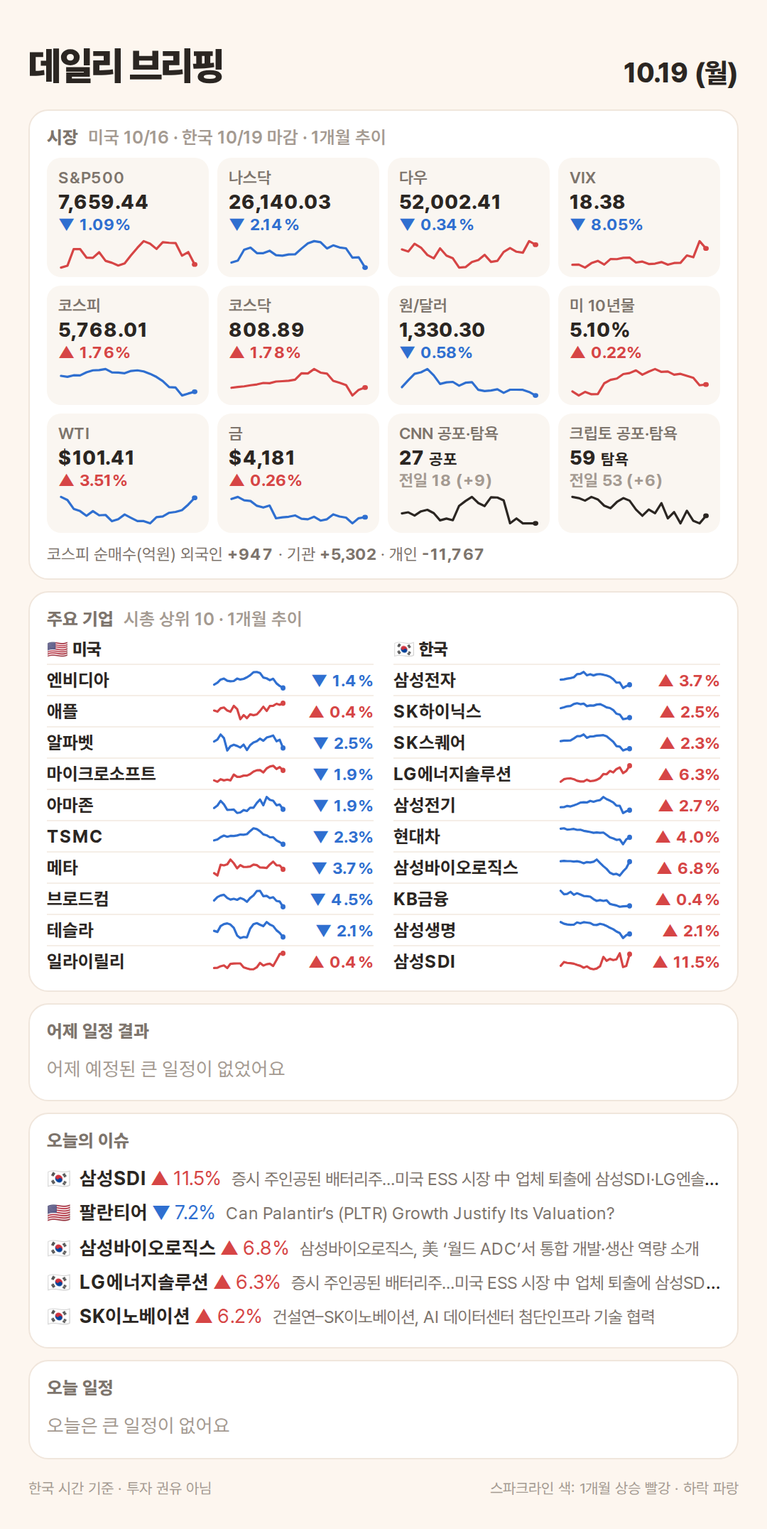
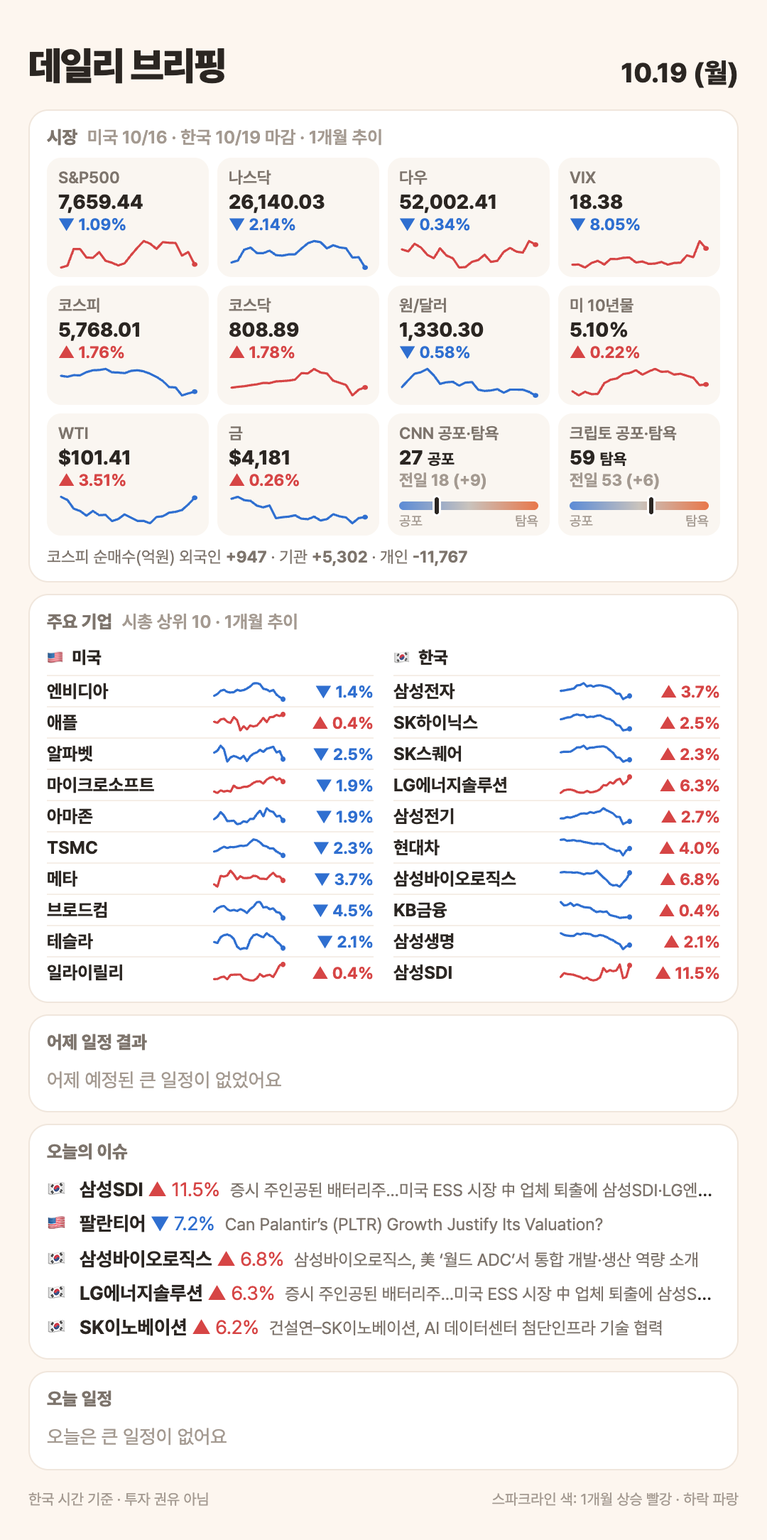
공포·탐욕 칸: 스파크라인 대신 공포~탐욕 축 위치 표시

diff --git a/docs/daily/2026-10-19/index.html b/docs/daily/2026-10-19/index.html
@@ -17,6 +17,9 @@ h1{font-size:27px;font-weight:900;letter-spacing:-1px}
 .tile{min-width:0;background:#faf6f1;border-radius:10px;padding:7px 8px 5px;display:flex;flex-direction:column}
 .tile .sp{width:100%;height:22px;margin-top:3px}
 .tv small{font-size:11px;font-weight:700}
+.mbar{position:relative;height:6px;border-radius:3px;margin-top:8px;background:linear-gradient(90deg,#5b8bd6,#c9c3bd 50%,#e8774a)}
+.mbar span{position:absolute;top:-3px;width:3px;height:12px;margin-left:-1.5px;border-radius:2px;background:var(--ink);box-shadow:0 0 0 1.5px #fff}
+.mticks{display:flex;justify-content:space-between;font-size:9.5px;color:var(--sub);margin-top:2px}
 .tl{font-size:11.5px;color:#7d746c;font-weight:600}
 .tv{font-size:14px;font-weight:800;margin-top:2px;white-space:nowrap;overflow:hidden;text-overflow:ellipsis}
 .tc{font-size:11.5px;font-weight:700;margin-top:1px}
@@ -65,7 +68,7 @@ td,th{text-align:left;padding:5px 6px;border-top:1px solid var(--line)}
 @media (max-width:420px){#card{padding:22px 12px 18px}.grid{grid-template-columns:repeat(3,1fr)}.cos{grid-template-columns:1fr}h1{font-size:24px}}</style></head><body>
 <div id="card">
 <div class="head"><h1>데일리 브리핑</h1><div class="range">10.19 (월)</div></div>
-<div class="blk"><div class="bt">시장 <span class="at">미국 10/16 · 한국 10/19 마감 · 1개월 추이</span></div><div class="grid"><a class="tile" href="https://m.stock.naver.com/worldstock/index/.INX"><div class="tl">S&amp;P500</div><div class="tv">7,659.44</div><div class="tc"><span class="down">▼ 1.09%</span></div><svg class="sp" viewBox="0 0 100 26" preserveAspectRatio="none" aria-hidden="true"><polyline points="2.0,24.0 6.6,22.5 11.1,8.6 15.7,8.6 20.3,15.7 24.9,15.9 29.4,11.2 34.0,18.4 38.6,20.0 43.1,22.3 47.7,20.5 52.3,13.7 56.9,7.5 61.4,2.0 66.0,4.1 70.6,8.5 75.1,2.9 79.7,3.4 84.3,3.6 88.9,14.1 93.4,11.1 98.0,21.4" fill="none" stroke="var(--up)" stroke-width="1.6" stroke-linejoin="round" stroke-linecap="round" vector-effect="non-scaling-stroke"/><circle cx="98.0" cy="21.4" r="2" fill="var(--up)"/></svg></a><a class="tile" href="https://m.stock.naver.com/worldstock/index/.IXIC"><div class="tl">나스닥</div><div class="tv">26,140.03</div><div class="tc"><span class="down">▼ 2.14%</span></div><svg class="sp" viewBox="0 0 100 26" preserveAspectRatio="none" aria-hidden="true"><polyline points="2.0,19.8 6.6,18.2 11.1,9.2 15.7,7.4 20.3,12.0 24.9,12.0 29.4,10.0 34.0,13.7 38.6,14.1 43.1,13.1 47.7,13.0 52.3,8.2 56.9,3.8 61.4,2.0 66.0,2.9 70.6,8.1 75.1,5.5 79.7,7.3 84.3,8.0 88.9,15.7 93.4,15.4 98.0,24.0" fill="none" stroke="var(--down)" stroke-width="1.6" stroke-linejoin="round" stroke-linecap="round" vector-effect="non-scaling-stroke"/><circle cx="98.0" cy="24.0" r="2" fill="var(--down)"/></svg></a><a class="tile" href="https://m.stock.naver.com/worldstock/index/.DJI"><div class="tl">다우</div><div class="tv">52,002.41</div><div class="tc"><span class="down">▼ 0.34%</span></div><svg class="sp" viewBox="0 0 100 26" preserveAspectRatio="none" aria-hidden="true"><polyline points="2.0,8.9 6.6,10.6 11.1,4.2 15.7,7.4 20.3,13.5 24.9,16.3 29.4,8.0 34.0,14.0 38.6,16.3 43.1,24.0 47.7,23.6 52.3,19.3 56.9,17.7 61.4,13.4 66.0,19.3 70.6,18.4 75.1,11.0 79.7,7.7 84.3,10.8 88.9,11.6 93.4,2.0 98.0,5.0" fill="none" stroke="var(--up)" stroke-width="1.6" stroke-linejoin="round" stroke-linecap="round" vector-effect="non-scaling-stroke"/><circle cx="98.0" cy="5.0" r="2" fill="var(--up)"/></svg></a><a class="tile" href="https://m.stock.naver.com/worldstock/index/.VIX"><div class="tl">VIX</div><div class="tv">18.38</div><div class="tc"><span class="down">▼ 8.05%</span></div><svg class="sp" viewBox="0 0 100 26" preserveAspectRatio="none" aria-hidden="true"><polyline points="2.0,21.7 6.6,21.5 11.1,24.0 15.7,20.3 20.3,18.4 24.9,21.5 29.4,16.9 34.0,17.0 38.6,15.9 43.1,15.7 47.7,19.8 52.3,19.0 56.9,21.0 61.4,20.7 66.0,19.4 70.6,21.6 75.1,20.2 79.7,20.0 84.3,13.9 88.9,15.4 93.4,2.0 98.0,8.1" fill="none" stroke="var(--up)" stroke-width="1.6" stroke-linejoin="round" stroke-linecap="round" vector-effect="non-scaling-stroke"/><circle cx="98.0" cy="8.1" r="2" fill="var(--up)"/></svg></a><a class="tile" href="https://m.stock.naver.com/domestic/index/KOSPI"><div class="tl">코스피</div><div class="tv">5,768.01</div><div class="tc"><span class="up">▲ 1.76%</span></div><svg class="sp" viewBox="0 0 100 26" preserveAspectRatio="none" aria-hidden="true"><polyline points="2.0,7.7 6.6,8.5 11.1,7.2 15.7,7.3 20.3,4.7 24.9,3.1 29.4,2.9 34.0,2.0 38.6,4.8 43.1,5.0 47.7,5.5 52.3,3.6 56.9,3.1 61.4,4.0 66.0,6.0 70.6,8.6 75.1,12.0 79.7,17.1 84.3,17.4 88.9,24.0 93.4,22.4 98.0,20.9" fill="none" stroke="var(--down)" stroke-width="1.6" stroke-linejoin="round" stroke-linecap="round" vector-effect="non-scaling-stroke"/><circle cx="98.0" cy="20.9" r="2" fill="var(--down)"/></svg></a><a class="tile" href="https://m.stock.naver.com/domestic/index/KOSDAQ"><div class="tl">코스닥</div><div class="tv">808.89</div><div class="tc"><span class="up">▲ 1.78%</span></div><svg class="sp" viewBox="0 0 100 26" preserveAspectRatio="none" aria-hidden="true"><polyline points="2.0,17.6 6.6,16.9 11.1,16.4 15.7,15.5 20.3,14.8 24.9,13.6 29.4,13.8 34.0,12.4 38.6,12.1 43.1,11.7 47.7,10.9 52.3,5.5 56.9,5.7 61.4,2.0 66.0,5.0 70.6,5.8 75.1,11.8 79.7,13.5 84.3,15.3 88.9,24.0 93.4,19.3 98.0,17.4" fill="none" stroke="var(--up)" stroke-width="1.6" stroke-linejoin="round" stroke-linecap="round" vector-effect="non-scaling-stroke"/><circle cx="98.0" cy="17.4" r="2" fill="var(--up)"/></svg></a><a class="tile" href="https://m.stock.naver.com/marketindex/exchange/FX_USDKRW"><div class="tl">원/달러</div><div class="tv">1,330.30</div><div class="tc"><span class="down">▼ 0.58%</span></div><svg class="sp" viewBox="0 0 100 26" preserveAspectRatio="none" aria-hidden="true"><polyline points="2.0,17.1 6.6,11.3 11.1,6.0 15.7,4.7 20.3,2.0 24.9,7.3 29.4,14.4 34.0,13.1 38.6,12.7 43.1,15.9 47.7,13.4 52.3,12.9 56.9,19.3 61.4,20.3 66.0,19.9 70.6,18.8 75.1,21.8 79.7,19.2 84.3,19.2 88.9,19.3 93.4,21.1 98.0,24.0" fill="none" stroke="var(--down)" stroke-width="1.6" stroke-linejoin="round" stroke-linecap="round" vector-effect="non-scaling-stroke"/><circle cx="98.0" cy="24.0" r="2" fill="var(--down)"/></svg></a><a class="tile" href="https://m.stock.naver.com/marketindex/bond/US10YT=RR"><div class="tl">미 10년물</div><div class="tv">5.10%</div><div class="tc"><span class="up">▲ 0.22%</span></div><svg class="sp" viewBox="0 0 100 26" preserveAspectRatio="none" aria-hidden="true"><polyline points="2.0,20.6 6.6,24.0 11.1,21.0 15.7,23.0 20.3,22.8 24.9,13.9 29.4,11.0 34.0,9.9 38.6,6.2 43.1,5.4 47.7,3.1 52.3,6.7 56.9,4.1 61.4,2.0 66.0,4.4 70.6,4.1 75.1,6.7 79.7,6.0 84.3,7.7 88.9,9.3 93.4,15.5 98.0,14.9" fill="none" stroke="var(--up)" stroke-width="1.6" stroke-linejoin="round" stroke-linecap="round" vector-effect="non-scaling-stroke"/><circle cx="98.0" cy="14.9" r="2" fill="var(--up)"/></svg></a><a class="tile" href="https://m.stock.naver.com/marketindex/energy/CLcv1"><div class="tl">WTI</div><div class="tv">$101.41</div><div class="tc"><span class="up">▲ 3.51%</span></div><svg class="sp" viewBox="0 0 100 26" preserveAspectRatio="none" aria-hidden="true"><polyline points="2.0,2.0 6.6,4.6 11.1,11.9 15.7,13.8 20.3,17.7 24.9,13.8 29.4,17.3 34.0,17.0 38.6,22.2 43.1,20.5 47.7,16.6 52.3,19.4 56.9,22.1 61.4,22.1 66.0,24.0 70.6,18.8 75.1,18.2 79.7,15.2 84.3,14.5 88.9,13.0 93.4,8.4 98.0,2.8" fill="none" stroke="var(--down)" stroke-width="1.6" stroke-linejoin="round" stroke-linecap="round" vector-effect="non-scaling-stroke"/><circle cx="98.0" cy="2.8" r="2" fill="var(--down)"/></svg></a><a class="tile" href="https://m.stock.naver.com/marketindex/metals/GCcv1"><div class="tl">금</div><div class="tv">$4,181</div><div class="tc"><span class="up">▲ 0.26%</span></div><svg class="sp" viewBox="0 0 100 26" preserveAspectRatio="none" aria-hidden="true"><polyline points="2.0,3.7 6.6,2.0 11.1,4.8 15.7,5.4 20.3,9.4 24.9,10.8 29.4,9.2 34.0,19.8 38.6,19.0 43.1,18.5 47.7,17.4 52.3,20.2 56.9,20.6 61.4,18.5 66.0,21.7 70.6,20.6 75.1,16.5 79.7,18.3 84.3,19.2 88.9,24.0 93.4,19.7 98.0,18.9" fill="none" stroke="var(--down)" stroke-width="1.6" stroke-linejoin="round" stroke-linecap="round" vector-effect="non-scaling-stroke"/><circle cx="98.0" cy="18.9" r="2" fill="var(--down)"/></svg></a><a class="tile" href="https://edition.cnn.com/markets/fear-and-greed"><div class="tl">CNN 공포·탐욕</div><div class="tv">27 <small>공포</small></div><div class="tc flat">전일 18 (+9)</div><svg class="sp" viewBox="0 0 100 26" preserveAspectRatio="none" aria-hidden="true"><polyline points="2.0,15.7 6.6,14.8 11.1,17.5 15.7,14.0 20.3,12.7 24.9,15.5 29.4,21.5 34.0,20.0 38.6,21.4 43.1,9.4 47.7,5.4 52.3,2.0 56.9,7.1 61.4,9.6 66.0,2.3 70.6,2.5 75.1,4.9 79.7,23.9 84.3,19.9 88.9,24.0 93.4,24.0 98.0,24.0" fill="none" stroke="var(--ink)" stroke-width="1.6" stroke-linejoin="round" stroke-linecap="round" vector-effect="non-scaling-stroke"/><circle cx="98.0" cy="24.0" r="2" fill="var(--ink)"/></svg></a><a class="tile" href="https://alternative.me/crypto/fear-and-greed-index/"><div class="tl">크립토 공포·탐욕</div><div class="tv">59 <small>탐욕</small></div><div class="tc flat">전일 53 (+6)</div><svg class="sp" viewBox="0 0 100 26" preserveAspectRatio="none" aria-hidden="true"><polyline points="2.0,2.0 6.6,3.0 11.1,5.1 15.7,2.0 20.3,4.1 24.9,9.3 29.4,11.4 34.0,6.2 38.6,3.0 43.1,5.1 47.7,12.5 52.3,17.7 56.9,12.5 61.4,15.6 66.0,7.2 70.6,19.8 75.1,14.6 79.7,24.0 84.3,13.5 88.9,21.9 93.4,24.0 98.0,17.7" fill="none" stroke="var(--ink)" stroke-width="1.6" stroke-linejoin="round" stroke-linecap="round" vector-effect="non-scaling-stroke"/><circle cx="98.0" cy="17.7" r="2" fill="var(--ink)"/></svg></a></div><div class="flow">코스피 순매수(억원) 외국인 <b>+947</b> · 기관 <b>+5,302</b> · 개인 <b>-11,767</b></div></div>
+<div class="blk"><div class="bt">시장 <span class="at">미국 10/16 · 한국 10/19 마감 · 1개월 추이</span></div><div class="grid"><a class="tile" href="https://m.stock.naver.com/worldstock/index/.INX"><div class="tl">S&amp;P500</div><div class="tv">7,659.44</div><div class="tc"><span class="down">▼ 1.09%</span></div><svg class="sp" viewBox="0 0 100 26" preserveAspectRatio="none" aria-hidden="true"><polyline points="2.0,24.0 6.6,22.5 11.1,8.6 15.7,8.6 20.3,15.7 24.9,15.9 29.4,11.2 34.0,18.4 38.6,20.0 43.1,22.3 47.7,20.5 52.3,13.7 56.9,7.5 61.4,2.0 66.0,4.1 70.6,8.5 75.1,2.9 79.7,3.4 84.3,3.6 88.9,14.1 93.4,11.1 98.0,21.4" fill="none" stroke="var(--up)" stroke-width="1.6" stroke-linejoin="round" stroke-linecap="round" vector-effect="non-scaling-stroke"/><circle cx="98.0" cy="21.4" r="2" fill="var(--up)"/></svg></a><a class="tile" href="https://m.stock.naver.com/worldstock/index/.IXIC"><div class="tl">나스닥</div><div class="tv">26,140.03</div><div class="tc"><span class="down">▼ 2.14%</span></div><svg class="sp" viewBox="0 0 100 26" preserveAspectRatio="none" aria-hidden="true"><polyline points="2.0,19.8 6.6,18.2 11.1,9.2 15.7,7.4 20.3,12.0 24.9,12.0 29.4,10.0 34.0,13.7 38.6,14.1 43.1,13.1 47.7,13.0 52.3,8.2 56.9,3.8 61.4,2.0 66.0,2.9 70.6,8.1 75.1,5.5 79.7,7.3 84.3,8.0 88.9,15.7 93.4,15.4 98.0,24.0" fill="none" stroke="var(--down)" stroke-width="1.6" stroke-linejoin="round" stroke-linecap="round" vector-effect="non-scaling-stroke"/><circle cx="98.0" cy="24.0" r="2" fill="var(--down)"/></svg></a><a class="tile" href="https://m.stock.naver.com/worldstock/index/.DJI"><div class="tl">다우</div><div class="tv">52,002.41</div><div class="tc"><span class="down">▼ 0.34%</span></div><svg class="sp" viewBox="0 0 100 26" preserveAspectRatio="none" aria-hidden="true"><polyline points="2.0,8.9 6.6,10.6 11.1,4.2 15.7,7.4 20.3,13.5 24.9,16.3 29.4,8.0 34.0,14.0 38.6,16.3 43.1,24.0 47.7,23.6 52.3,19.3 56.9,17.7 61.4,13.4 66.0,19.3 70.6,18.4 75.1,11.0 79.7,7.7 84.3,10.8 88.9,11.6 93.4,2.0 98.0,5.0" fill="none" stroke="var(--up)" stroke-width="1.6" stroke-linejoin="round" stroke-linecap="round" vector-effect="non-scaling-stroke"/><circle cx="98.0" cy="5.0" r="2" fill="var(--up)"/></svg></a><a class="tile" href="https://m.stock.naver.com/worldstock/index/.VIX"><div class="tl">VIX</div><div class="tv">18.38</div><div class="tc"><span class="down">▼ 8.05%</span></div><svg class="sp" viewBox="0 0 100 26" preserveAspectRatio="none" aria-hidden="true"><polyline points="2.0,21.7 6.6,21.5 11.1,24.0 15.7,20.3 20.3,18.4 24.9,21.5 29.4,16.9 34.0,17.0 38.6,15.9 43.1,15.7 47.7,19.8 52.3,19.0 56.9,21.0 61.4,20.7 66.0,19.4 70.6,21.6 75.1,20.2 79.7,20.0 84.3,13.9 88.9,15.4 93.4,2.0 98.0,8.1" fill="none" stroke="var(--up)" stroke-width="1.6" stroke-linejoin="round" stroke-linecap="round" vector-effect="non-scaling-stroke"/><circle cx="98.0" cy="8.1" r="2" fill="var(--up)"/></svg></a><a class="tile" href="https://m.stock.naver.com/domestic/index/KOSPI"><div class="tl">코스피</div><div class="tv">5,768.01</div><div class="tc"><span class="up">▲ 1.76%</span></div><svg class="sp" viewBox="0 0 100 26" preserveAspectRatio="none" aria-hidden="true"><polyline points="2.0,7.7 6.6,8.5 11.1,7.2 15.7,7.3 20.3,4.7 24.9,3.1 29.4,2.9 34.0,2.0 38.6,4.8 43.1,5.0 47.7,5.5 52.3,3.6 56.9,3.1 61.4,4.0 66.0,6.0 70.6,8.6 75.1,12.0 79.7,17.1 84.3,17.4 88.9,24.0 93.4,22.4 98.0,20.9" fill="none" stroke="var(--down)" stroke-width="1.6" stroke-linejoin="round" stroke-linecap="round" vector-effect="non-scaling-stroke"/><circle cx="98.0" cy="20.9" r="2" fill="var(--down)"/></svg></a><a class="tile" href="https://m.stock.naver.com/domestic/index/KOSDAQ"><div class="tl">코스닥</div><div class="tv">808.89</div><div class="tc"><span class="up">▲ 1.78%</span></div><svg class="sp" viewBox="0 0 100 26" preserveAspectRatio="none" aria-hidden="true"><polyline points="2.0,17.6 6.6,16.9 11.1,16.4 15.7,15.5 20.3,14.8 24.9,13.6 29.4,13.8 34.0,12.4 38.6,12.1 43.1,11.7 47.7,10.9 52.3,5.5 56.9,5.7 61.4,2.0 66.0,5.0 70.6,5.8 75.1,11.8 79.7,13.5 84.3,15.3 88.9,24.0 93.4,19.3 98.0,17.4" fill="none" stroke="var(--up)" stroke-width="1.6" stroke-linejoin="round" stroke-linecap="round" vector-effect="non-scaling-stroke"/><circle cx="98.0" cy="17.4" r="2" fill="var(--up)"/></svg></a><a class="tile" href="https://m.stock.naver.com/marketindex/exchange/FX_USDKRW"><div class="tl">원/달러</div><div class="tv">1,330.30</div><div class="tc"><span class="down">▼ 0.58%</span></div><svg class="sp" viewBox="0 0 100 26" preserveAspectRatio="none" aria-hidden="true"><polyline points="2.0,17.1 6.6,11.3 11.1,6.0 15.7,4.7 20.3,2.0 24.9,7.3 29.4,14.4 34.0,13.1 38.6,12.7 43.1,15.9 47.7,13.4 52.3,12.9 56.9,19.3 61.4,20.3 66.0,19.9 70.6,18.8 75.1,21.8 79.7,19.2 84.3,19.2 88.9,19.3 93.4,21.1 98.0,24.0" fill="none" stroke="var(--down)" stroke-width="1.6" stroke-linejoin="round" stroke-linecap="round" vector-effect="non-scaling-stroke"/><circle cx="98.0" cy="24.0" r="2" fill="var(--down)"/></svg></a><a class="tile" href="https://m.stock.naver.com/marketindex/bond/US10YT=RR"><div class="tl">미 10년물</div><div class="tv">5.10%</div><div class="tc"><span class="up">▲ 0.22%</span></div><svg class="sp" viewBox="0 0 100 26" preserveAspectRatio="none" aria-hidden="true"><polyline points="2.0,20.6 6.6,24.0 11.1,21.0 15.7,23.0 20.3,22.8 24.9,13.9 29.4,11.0 34.0,9.9 38.6,6.2 43.1,5.4 47.7,3.1 52.3,6.7 56.9,4.1 61.4,2.0 66.0,4.4 70.6,4.1 75.1,6.7 79.7,6.0 84.3,7.7 88.9,9.3 93.4,15.5 98.0,14.9" fill="none" stroke="var(--up)" stroke-width="1.6" stroke-linejoin="round" stroke-linecap="round" vector-effect="non-scaling-stroke"/><circle cx="98.0" cy="14.9" r="2" fill="var(--up)"/></svg></a><a class="tile" href="https://m.stock.naver.com/marketindex/energy/CLcv1"><div class="tl">WTI</div><div class="tv">$101.41</div><div class="tc"><span class="up">▲ 3.51%</span></div><svg class="sp" viewBox="0 0 100 26" preserveAspectRatio="none" aria-hidden="true"><polyline points="2.0,2.0 6.6,4.6 11.1,11.9 15.7,13.8 20.3,17.7 24.9,13.8 29.4,17.3 34.0,17.0 38.6,22.2 43.1,20.5 47.7,16.6 52.3,19.4 56.9,22.1 61.4,22.1 66.0,24.0 70.6,18.8 75.1,18.2 79.7,15.2 84.3,14.5 88.9,13.0 93.4,8.4 98.0,2.8" fill="none" stroke="var(--down)" stroke-width="1.6" stroke-linejoin="round" stroke-linecap="round" vector-effect="non-scaling-stroke"/><circle cx="98.0" cy="2.8" r="2" fill="var(--down)"/></svg></a><a class="tile" href="https://m.stock.naver.com/marketindex/metals/GCcv1"><div class="tl">금</div><div class="tv">$4,181</div><div class="tc"><span class="up">▲ 0.26%</span></div><svg class="sp" viewBox="0 0 100 26" preserveAspectRatio="none" aria-hidden="true"><polyline points="2.0,3.7 6.6,2.0 11.1,4.8 15.7,5.4 20.3,9.4 24.9,10.8 29.4,9.2 34.0,19.8 38.6,19.0 43.1,18.5 47.7,17.4 52.3,20.2 56.9,20.6 61.4,18.5 66.0,21.7 70.6,20.6 75.1,16.5 79.7,18.3 84.3,19.2 88.9,24.0 93.4,19.7 98.0,18.9" fill="none" stroke="var(--down)" stroke-width="1.6" stroke-linejoin="round" stroke-linecap="round" vector-effect="non-scaling-stroke"/><circle cx="98.0" cy="18.9" r="2" fill="var(--down)"/></svg></a><a class="tile" href="https://edition.cnn.com/markets/fear-and-greed"><div class="tl">CNN 공포·탐욕</div><div class="tv">27 <small>공포</small></div><div class="tc flat">전일 18 (+9)</div><div class="mbar"><span style="left:27%"></span></div><div class="mticks"><span>공포</span><span>탐욕</span></div></a><a class="tile" href="https://alternative.me/crypto/fear-and-greed-index/"><div class="tl">크립토 공포·탐욕</div><div class="tv">59 <small>탐욕</small></div><div class="tc flat">전일 53 (+6)</div><div class="mbar"><span style="left:59%"></span></div><div class="mticks"><span>공포</span><span>탐욕</span></div></a></div><div class="flow">코스피 순매수(억원) 외국인 <b>+947</b> · 기관 <b>+5,302</b> · 개인 <b>-11,767</b></div></div>
 <div class="blk"><div class="bt">주요 기업 <span class="at">시총 상위 10 · 1개월 추이</span></div>
 <div class="cos"><div><div class="ch">🇺🇸 미국</div><a class="co" href="https://www.nasdaq.com/market-activity/stocks/nvda"><span class="cn">엔비디아</span><svg class="sp" viewBox="0 0 60 16" preserveAspectRatio="none" aria-hidden="true"><polyline points="2.0,11.5 4.7,10.1 7.3,7.7 10.0,7.0 12.7,8.6 15.3,9.0 18.0,8.8 20.7,7.0 23.3,7.7 26.0,7.2 28.7,6.0 31.3,4.5 34.0,2.2 36.7,2.0 39.3,2.8 42.0,6.2 44.7,6.8 47.3,8.2 50.0,7.1 52.7,10.6 55.3,12.5 58.0,14.0" fill="none" stroke="var(--down)" stroke-width="1.6" stroke-linejoin="round" stroke-linecap="round" vector-effect="non-scaling-stroke"/><circle cx="58.0" cy="14.0" r="2" fill="var(--down)"/></svg><span class="cc"><span class="down">▼ 1.4%</span></span></a><a class="co" href="https://www.nasdaq.com/market-activity/stocks/aapl"><span class="cn">애플</span><svg class="sp" viewBox="0 0 60 16" preserveAspectRatio="none" aria-hidden="true"><polyline points="2.0,7.5 4.7,8.3 7.3,5.8 10.0,5.2 12.7,7.5 15.3,8.4 18.0,4.0 20.7,6.3 23.3,14.0 26.0,10.9 28.7,13.2 31.3,10.3 34.0,11.0 36.7,10.4 39.3,7.8 42.0,4.6 44.7,7.8 47.3,4.1 50.0,3.9 52.7,2.4 55.3,3.2 58.0,2.0" fill="none" stroke="var(--up)" stroke-width="1.6" stroke-linejoin="round" stroke-linecap="round" vector-effect="non-scaling-stroke"/><circle cx="58.0" cy="2.0" r="2" fill="var(--up)"/></svg><span class="cc"><span class="up">▲ 0.4%</span></span></a><a class="co" href="https://www.nasdaq.com/market-activity/stocks/googl"><span class="cn">알파벳</span><svg class="sp" viewBox="0 0 60 16" preserveAspectRatio="none" aria-hidden="true"><polyline points="2.0,7.3 4.7,5.8 7.3,2.0 10.0,4.7 12.7,14.0 15.3,10.8 18.0,9.7 20.7,10.6 23.3,11.8 26.0,9.6 28.7,13.7 31.3,10.0 34.0,8.0 36.7,7.1 39.3,5.1 42.0,6.7 44.7,4.3 47.3,3.6 50.0,2.8 52.7,7.1 55.3,6.0 58.0,12.1" fill="none" stroke="var(--down)" stroke-width="1.6" stroke-linejoin="round" stroke-linecap="round" vector-effect="non-scaling-stroke"/><circle cx="58.0" cy="12.1" r="2" fill="var(--down)"/></svg><span class="cc"><span class="down">▼ 2.5%</span></span></a><a class="co" href="https://www.nasdaq.com/market-activity/stocks/msft"><span class="cn">마이크로소프트</span><svg class="sp" viewBox="0 0 60 16" preserveAspectRatio="none" aria-hidden="true"><polyline points="2.0,13.0 4.7,14.0 7.3,12.1 10.0,13.0 12.7,12.4 15.3,13.0 18.0,8.6 20.7,10.3 23.3,10.3 26.0,9.4 28.7,9.4 31.3,8.3 34.0,6.4 36.7,5.4 39.3,5.3 42.0,7.0 44.7,4.0 47.3,2.6 50.0,2.0 52.7,4.4 55.3,3.0 58.0,5.5" fill="none" stroke="var(--up)" stroke-width="1.6" stroke-linejoin="round" stroke-linecap="round" vector-effect="non-scaling-stroke"/><circle cx="58.0" cy="5.5" r="2" fill="var(--up)"/></svg><span class="cc"><span class="down">▼ 1.9%</span></span></a><a class="co" href="https://www.nasdaq.com/market-activity/stocks/amzn"><span class="cn">아마존</span><svg class="sp" viewBox="0 0 60 16" preserveAspectRatio="none" aria-hidden="true"><polyline points="2.0,10.3 4.7,8.4 7.3,4.9 10.0,7.5 12.7,11.7 15.3,11.6 18.0,11.4 20.7,14.0 23.3,13.6 26.0,11.8 28.7,12.5 31.3,10.0 34.0,10.1 36.7,6.5 39.3,3.9 42.0,8.2 44.7,2.0 47.3,4.1 50.0,4.8 52.7,8.2 55.3,7.7 58.0,11.2" fill="none" stroke="var(--down)" stroke-width="1.6" stroke-linejoin="round" stroke-linecap="round" vector-effect="non-scaling-stroke"/><circle cx="58.0" cy="11.2" r="2" fill="var(--down)"/></svg><span class="cc"><span class="down">▼ 1.9%</span></span></a><a class="co" href="https://www.nasdaq.com/market-activity/stocks/tsm"><span class="cn">TSMC</span><svg class="sp" viewBox="0 0 60 16" preserveAspectRatio="none" aria-hidden="true"><polyline points="2.0,11.1 4.7,10.4 7.3,8.7 10.0,7.5 12.7,8.4 15.3,7.7 18.0,7.8 20.7,7.4 23.3,6.7 26.0,6.9 28.7,6.4 31.3,4.1 34.0,2.0 36.7,2.6 39.3,4.2 42.0,6.6 44.7,7.3 47.3,8.8 50.0,8.7 52.7,11.1 55.3,12.4 58.0,14.0" fill="none" stroke="var(--down)" stroke-width="1.6" stroke-linejoin="round" stroke-linecap="round" vector-effect="non-scaling-stroke"/><circle cx="58.0" cy="14.0" r="2" fill="var(--down)"/></svg><span class="cc"><span class="down">▼ 2.3%</span></span></a><a class="co" href="https://www.nasdaq.com/market-activity/stocks/meta"><span class="cn">메타</span><svg class="sp" viewBox="0 0 60 16" preserveAspectRatio="none" aria-hidden="true"><polyline points="2.0,12.2 4.7,14.0 7.3,5.9 10.0,6.4 12.7,5.6 15.3,2.0 18.0,4.8 20.7,8.6 23.3,6.2 26.0,7.6 28.7,7.5 31.3,7.3 34.0,5.8 36.7,6.2 39.3,8.0 42.0,8.1 44.7,8.3 47.3,5.7 50.0,3.6 52.7,6.3 55.3,6.4 58.0,9.3" fill="none" stroke="var(--up)" stroke-width="1.6" stroke-linejoin="round" stroke-linecap="round" vector-effect="non-scaling-stroke"/><circle cx="58.0" cy="9.3" r="2" fill="var(--up)"/></svg><span class="cc"><span class="down">▼ 3.7%</span></span></a><a class="co" href="https://www.nasdaq.com/market-activity/stocks/avgo"><span class="cn">브로드컴</span><svg class="sp" viewBox="0 0 60 16" preserveAspectRatio="none" aria-hidden="true"><polyline points="2.0,9.3 4.7,6.7 7.3,5.5 10.0,5.0 12.7,7.4 15.3,8.6 18.0,8.0 20.7,8.8 23.3,7.4 26.0,8.4 28.7,10.3 31.3,7.4 34.0,5.5 36.7,2.2 39.3,2.0 42.0,6.1 44.7,5.8 47.3,7.5 50.0,6.8 52.7,9.6 55.3,10.1 58.0,14.0" fill="none" stroke="var(--down)" stroke-width="1.6" stroke-linejoin="round" stroke-linecap="round" vector-effect="non-scaling-stroke"/><circle cx="58.0" cy="14.0" r="2" fill="var(--down)"/></svg><span class="cc"><span class="down">▼ 4.5%</span></span></a><a class="co" href="https://www.nasdaq.com/market-activity/stocks/tsla"><span class="cn">테슬라</span><svg class="sp" viewBox="0 0 60 16" preserveAspectRatio="none" aria-hidden="true"><polyline points="2.0,8.6 4.7,9.4 7.3,5.0 10.0,3.5 12.7,3.0 15.3,3.9 18.0,6.3 20.7,12.1 23.3,14.0 26.0,13.2 28.7,13.5 31.3,6.9 34.0,3.6 36.7,2.8 39.3,4.0 42.0,5.1 44.7,2.0 47.3,3.9 50.0,5.0 52.7,8.2 55.3,10.1 58.0,13.2" fill="none" stroke="var(--down)" stroke-width="1.6" stroke-linejoin="round" stroke-linecap="round" vector-effect="non-scaling-stroke"/><circle cx="58.0" cy="13.2" r="2" fill="var(--down)"/></svg><span class="cc"><span class="down">▼ 2.1%</span></span></a><a class="co" href="https://www.nasdaq.com/market-activity/stocks/lly"><span class="cn">일라이릴리</span><svg class="sp" viewBox="0 0 60 16" preserveAspectRatio="none" aria-hidden="true"><polyline points="2.0,13.0 4.7,12.9 7.3,11.7 10.0,11.1 12.7,13.1 15.3,9.9 18.0,9.7 20.7,9.6 23.3,9.6 26.0,12.5 28.7,13.3 31.3,14.0 34.0,14.0 36.7,12.5 39.3,9.2 42.0,11.2 44.7,10.2 47.3,9.8 50.0,11.5 52.7,7.1 55.3,2.6 58.0,2.0" fill="none" stroke="var(--up)" stroke-width="1.6" stroke-linejoin="round" stroke-linecap="round" vector-effect="non-scaling-stroke"/><circle cx="58.0" cy="2.0" r="2" fill="var(--up)"/></svg><span class="cc"><span class="up">▲ 0.4%</span></span></a></div>
 <div><div class="ch">🇰🇷 한국</div><a class="co" href="https://m.stock.naver.com/domestic/stock/005930"><span class="cn">삼성전자</span><svg class="sp" viewBox="0 0 60 16" preserveAspectRatio="none" aria-hidden="true"><polyline points="2.0,7.8 4.7,7.5 7.3,7.0 10.0,6.6 12.7,6.0 15.3,3.7 18.0,3.4 20.7,2.0 23.3,4.5 26.0,3.7 28.7,4.6 31.3,3.8 34.0,3.6 36.7,4.1 39.3,4.7 42.0,5.6 44.7,7.4 47.3,10.0 50.0,9.9 52.7,14.0 55.3,12.6 58.0,11.6" fill="none" stroke="var(--down)" stroke-width="1.6" stroke-linejoin="round" stroke-linecap="round" vector-effect="non-scaling-stroke"/><circle cx="58.0" cy="11.6" r="2" fill="var(--down)"/></svg><span class="cc"><span class="up">▲ 3.7%</span></span></a><a class="co" href="https://m.stock.naver.com/domestic/stock/000660"><span class="cn">SK하이닉스</span><svg class="sp" viewBox="0 0 60 16" preserveAspectRatio="none" aria-hidden="true"><polyline points="2.0,5.7 4.7,5.1 7.3,4.3 10.0,4.1 12.7,2.6 15.3,2.0 18.0,2.7 20.7,2.3 23.3,4.2 26.0,3.7 28.7,3.8 31.3,3.0 34.0,2.7 36.7,3.8 39.3,5.1 42.0,5.6 44.7,7.1 47.3,9.9 50.0,10.5 52.7,14.0 55.3,13.5 58.0,12.8" fill="none" stroke="var(--down)" stroke-width="1.6" stroke-linejoin="round" stroke-linecap="round" vector-effect="non-scaling-stroke"/><circle cx="58.0" cy="12.8" r="2" fill="var(--down)"/></svg><span class="cc"><span class="up">▲ 2.5%</span></span></a><a class="co" href="https://m.stock.naver.com/domestic/stock/402340"><span class="cn">SK스퀘어</span><svg class="sp" viewBox="0 0 60 16" preserveAspectRatio="none" aria-hidden="true"><polyline points="2.0,7.0 4.7,6.6 7.3,6.6 10.0,6.5 12.7,5.0 15.3,3.3 18.0,3.3 20.7,2.0 23.3,4.5 26.0,3.5 28.7,3.4 31.3,2.9 34.0,2.7 36.7,2.5 39.3,3.3 42.0,5.4 44.7,7.5 47.3,10.7 50.0,11.1 52.7,14.0 55.3,13.1 58.0,12.6" fill="none" stroke="var(--down)" stroke-width="1.6" stroke-linejoin="round" stroke-linecap="round" vector-effect="non-scaling-stroke"/><circle cx="58.0" cy="12.6" r="2" fill="var(--down)"/></svg><span class="cc"><span class="up">▲ 2.3%</span></span></a><a class="co" href="https://m.stock.naver.com/domestic/stock/373220"><span class="cn">LG에너지솔루션</span><svg class="sp" viewBox="0 0 60 16" preserveAspectRatio="none" aria-hidden="true"><polyline points="2.0,14.0 4.7,12.1 7.3,11.6 10.0,11.5 12.7,12.1 15.3,13.3 18.0,13.8 20.7,13.8 23.3,12.5 26.0,13.6 28.7,13.3 31.3,12.6 34.0,11.2 36.7,8.2 39.3,8.4 42.0,5.9 44.7,7.0 47.3,4.5 50.0,3.3 52.7,7.5 55.3,5.9 58.0,2.0" fill="none" stroke="var(--up)" stroke-width="1.6" stroke-linejoin="round" stroke-linecap="round" vector-effect="non-scaling-stroke"/><circle cx="58.0" cy="2.0" r="2" fill="var(--up)"/></svg><span class="cc"><span class="up">▲ 6.3%</span></span></a><a class="co" href="https://m.stock.naver.com/domestic/stock/009150"><span class="cn">삼성전기</span><svg class="sp" viewBox="0 0 60 16" preserveAspectRatio="none" aria-hidden="true"><polyline points="2.0,9.7 4.7,9.6 7.3,8.7 10.0,9.1 12.7,8.3 15.3,7.4 18.0,6.2 20.7,5.9 23.3,6.1 26.0,4.9 28.7,5.6 31.3,4.8 34.0,4.3 36.7,2.0 39.3,3.6 42.0,4.7 44.7,6.1 47.3,8.5 50.0,8.6 52.7,14.0 55.3,12.7 58.0,11.9" fill="none" stroke="var(--down)" stroke-width="1.6" stroke-linejoin="round" stroke-linecap="round" vector-effect="non-scaling-stroke"/><circle cx="58.0" cy="11.9" r="2" fill="var(--down)"/></svg><span class="cc"><span class="up">▲ 2.7%</span></span></a><a class="co" href="https://m.stock.naver.com/domestic/stock/005380"><span class="cn">현대차</span><svg class="sp" viewBox="0 0 60 16" preserveAspectRatio="none" aria-hidden="true"><polyline points="2.0,2.3 4.7,2.0 7.3,3.0 10.0,2.8 12.7,2.5 15.3,3.2 18.0,3.1 20.7,3.9 23.3,4.3 26.0,4.8 28.7,5.4 31.3,5.1 34.0,5.4 36.7,5.2 39.3,6.9 42.0,8.8 44.7,9.6 47.3,10.7 50.0,10.4 52.7,14.0 55.3,10.3 58.0,8.8" fill="none" stroke="var(--down)" stroke-width="1.6" stroke-linejoin="round" stroke-linecap="round" vector-effect="non-scaling-stroke"/><circle cx="58.0" cy="8.8" r="2" fill="var(--down)"/></svg><span class="cc"><span class="up">▲ 4.0%</span></span></a><a class="co" href="https://m.stock.naver.com/domestic/stock/207940"><span class="cn">삼성바이오로직스</span><svg class="sp" viewBox="0 0 60 16" preserveAspectRatio="none" aria-hidden="true"><polyline points="2.0,3.3 4.7,3.0 7.3,3.2 10.0,3.2 12.7,3.5 15.3,3.3 18.0,3.8 20.7,4.8 23.3,3.9 26.0,4.2 28.7,3.7 31.3,2.0 34.0,4.6 36.7,7.0 39.3,9.0 42.0,11.9 44.7,13.1 47.3,12.7 50.0,14.0 52.7,10.9 55.3,8.4 58.0,3.6" fill="none" stroke="var(--down)" stroke-width="1.6" stroke-linejoin="round" stroke-linecap="round" vector-effect="non-scaling-stroke"/><circle cx="58.0" cy="3.6" r="2" fill="var(--down)"/></svg><span class="cc"><span class="up">▲ 6.8%</span></span></a><a class="co" href="https://m.stock.naver.com/domestic/stock/105560"><span class="cn">KB금융</span><svg class="sp" viewBox="0 0 60 16" preserveAspectRatio="none" aria-hidden="true"><polyline points="2.0,2.0 4.7,4.6 7.3,4.3 10.0,2.8 12.7,5.0 15.3,3.8 18.0,4.8 20.7,5.9 23.3,6.1 26.0,6.4 28.7,8.3 31.3,9.6 34.0,9.0 36.7,9.6 39.3,9.1 42.0,11.8 44.7,12.5 47.3,13.0 50.0,14.0 52.7,13.7 55.3,13.5 58.0,13.3" fill="none" stroke="var(--down)" stroke-width="1.6" stroke-linejoin="round" stroke-linecap="round" vector-effect="non-scaling-stroke"/><circle cx="58.0" cy="13.3" r="2" fill="var(--down)"/></svg><span class="cc"><span class="up">▲ 0.4%</span></span></a><a class="co" href="https://m.stock.naver.com/domestic/stock/032830"><span class="cn">삼성생명</span><svg class="sp" viewBox="0 0 60 16" preserveAspectRatio="none" aria-hidden="true"><polyline points="2.0,2.0 4.7,3.3 7.3,3.8 10.0,4.1 12.7,4.0 15.3,2.3 18.0,2.9 20.7,2.1 23.3,2.4 26.0,2.7 28.7,4.1 31.3,4.2 34.0,3.3 36.7,3.9 39.3,4.9 42.0,6.3 44.7,7.4 47.3,9.1 50.0,10.3 52.7,14.0 55.3,11.8 58.0,10.9" fill="none" stroke="var(--down)" stroke-width="1.6" stroke-linejoin="round" stroke-linecap="round" vector-effect="non-scaling-stroke"/><circle cx="58.0" cy="10.9" r="2" fill="var(--down)"/></svg><span class="cc"><span class="up">▲ 2.1%</span></span></a><a class="co" href="https://m.stock.naver.com/domestic/stock/006400"><span class="cn">삼성SDI</span><svg class="sp" viewBox="0 0 60 16" preserveAspectRatio="none" aria-hidden="true"><polyline points="2.0,11.4 4.7,8.5 7.3,9.2 10.0,9.4 12.7,9.8 15.3,10.7 18.0,11.4 20.7,12.8 23.3,11.8 26.0,13.4 28.7,14.0 31.3,13.4 34.0,11.7 36.7,4.7 39.3,7.6 42.0,6.2 44.7,7.1 47.3,6.5 50.0,2.0 52.7,12.3 55.3,11.5 58.0,2.7" fill="none" stroke="var(--up)" stroke-width="1.6" stroke-linejoin="round" stroke-linecap="round" vector-effect="non-scaling-stroke"/><circle cx="58.0" cy="2.7" r="2" fill="var(--up)"/></svg><span class="cc"><span class="up">▲ 11.5%</span></span></a></div></div></div>

diff --git a/daily.py b/daily.py
@@ -435,7 +435,8 @@ def fg_tile(name, fg):
     return (f'<a class="tile" href="{esc(fg["url"])}"><div class="tl">{esc(name)}</div>'
             f'<div class="tv">{fg["score"]} <small>{esc(fg["rating"])}</small></div>'
             f'<div class="tc flat">전일 {fg["prev_close"]} ({diff:+d})</div>'
-            f'{spark(fg.get("spark"), color="var(--ink)")}</a>')
+            f'<div class="mbar"><span style="left:{fg["score"]}%"></span></div>'
+            f'<div class="mticks"><span>공포</span><span>탐욕</span></div></a>')
 
 
 def meter(label, fg):
@@ -589,6 +590,9 @@ h1{font-size:27px;font-weight:900;letter-spacing:-1px}
 .tile{min-width:0;background:#faf6f1;border-radius:10px;padding:7px 8px 5px;display:flex;flex-direction:column}
 .tile .sp{width:100%;height:22px;margin-top:3px}
 .tv small{font-size:11px;font-weight:700}
+.mbar{position:relative;height:6px;border-radius:3px;margin-top:8px;background:linear-gradient(90deg,#5b8bd6,#c9c3bd 50%,#e8774a)}
+.mbar span{position:absolute;top:-3px;width:3px;height:12px;margin-left:-1.5px;border-radius:2px;background:var(--ink);box-shadow:0 0 0 1.5px #fff}
+.mticks{display:flex;justify-content:space-between;font-size:9.5px;color:var(--sub);margin-top:2px}
 .tl{font-size:11.5px;color:#7d746c;font-weight:600}
 .tv{font-size:14px;font-weight:800;margin-top:2px;white-space:nowrap;overflow:hidden;text-overflow:ellipsis}
 .tc{font-size:11.5px;font-weight:700;margin-top:1px}
